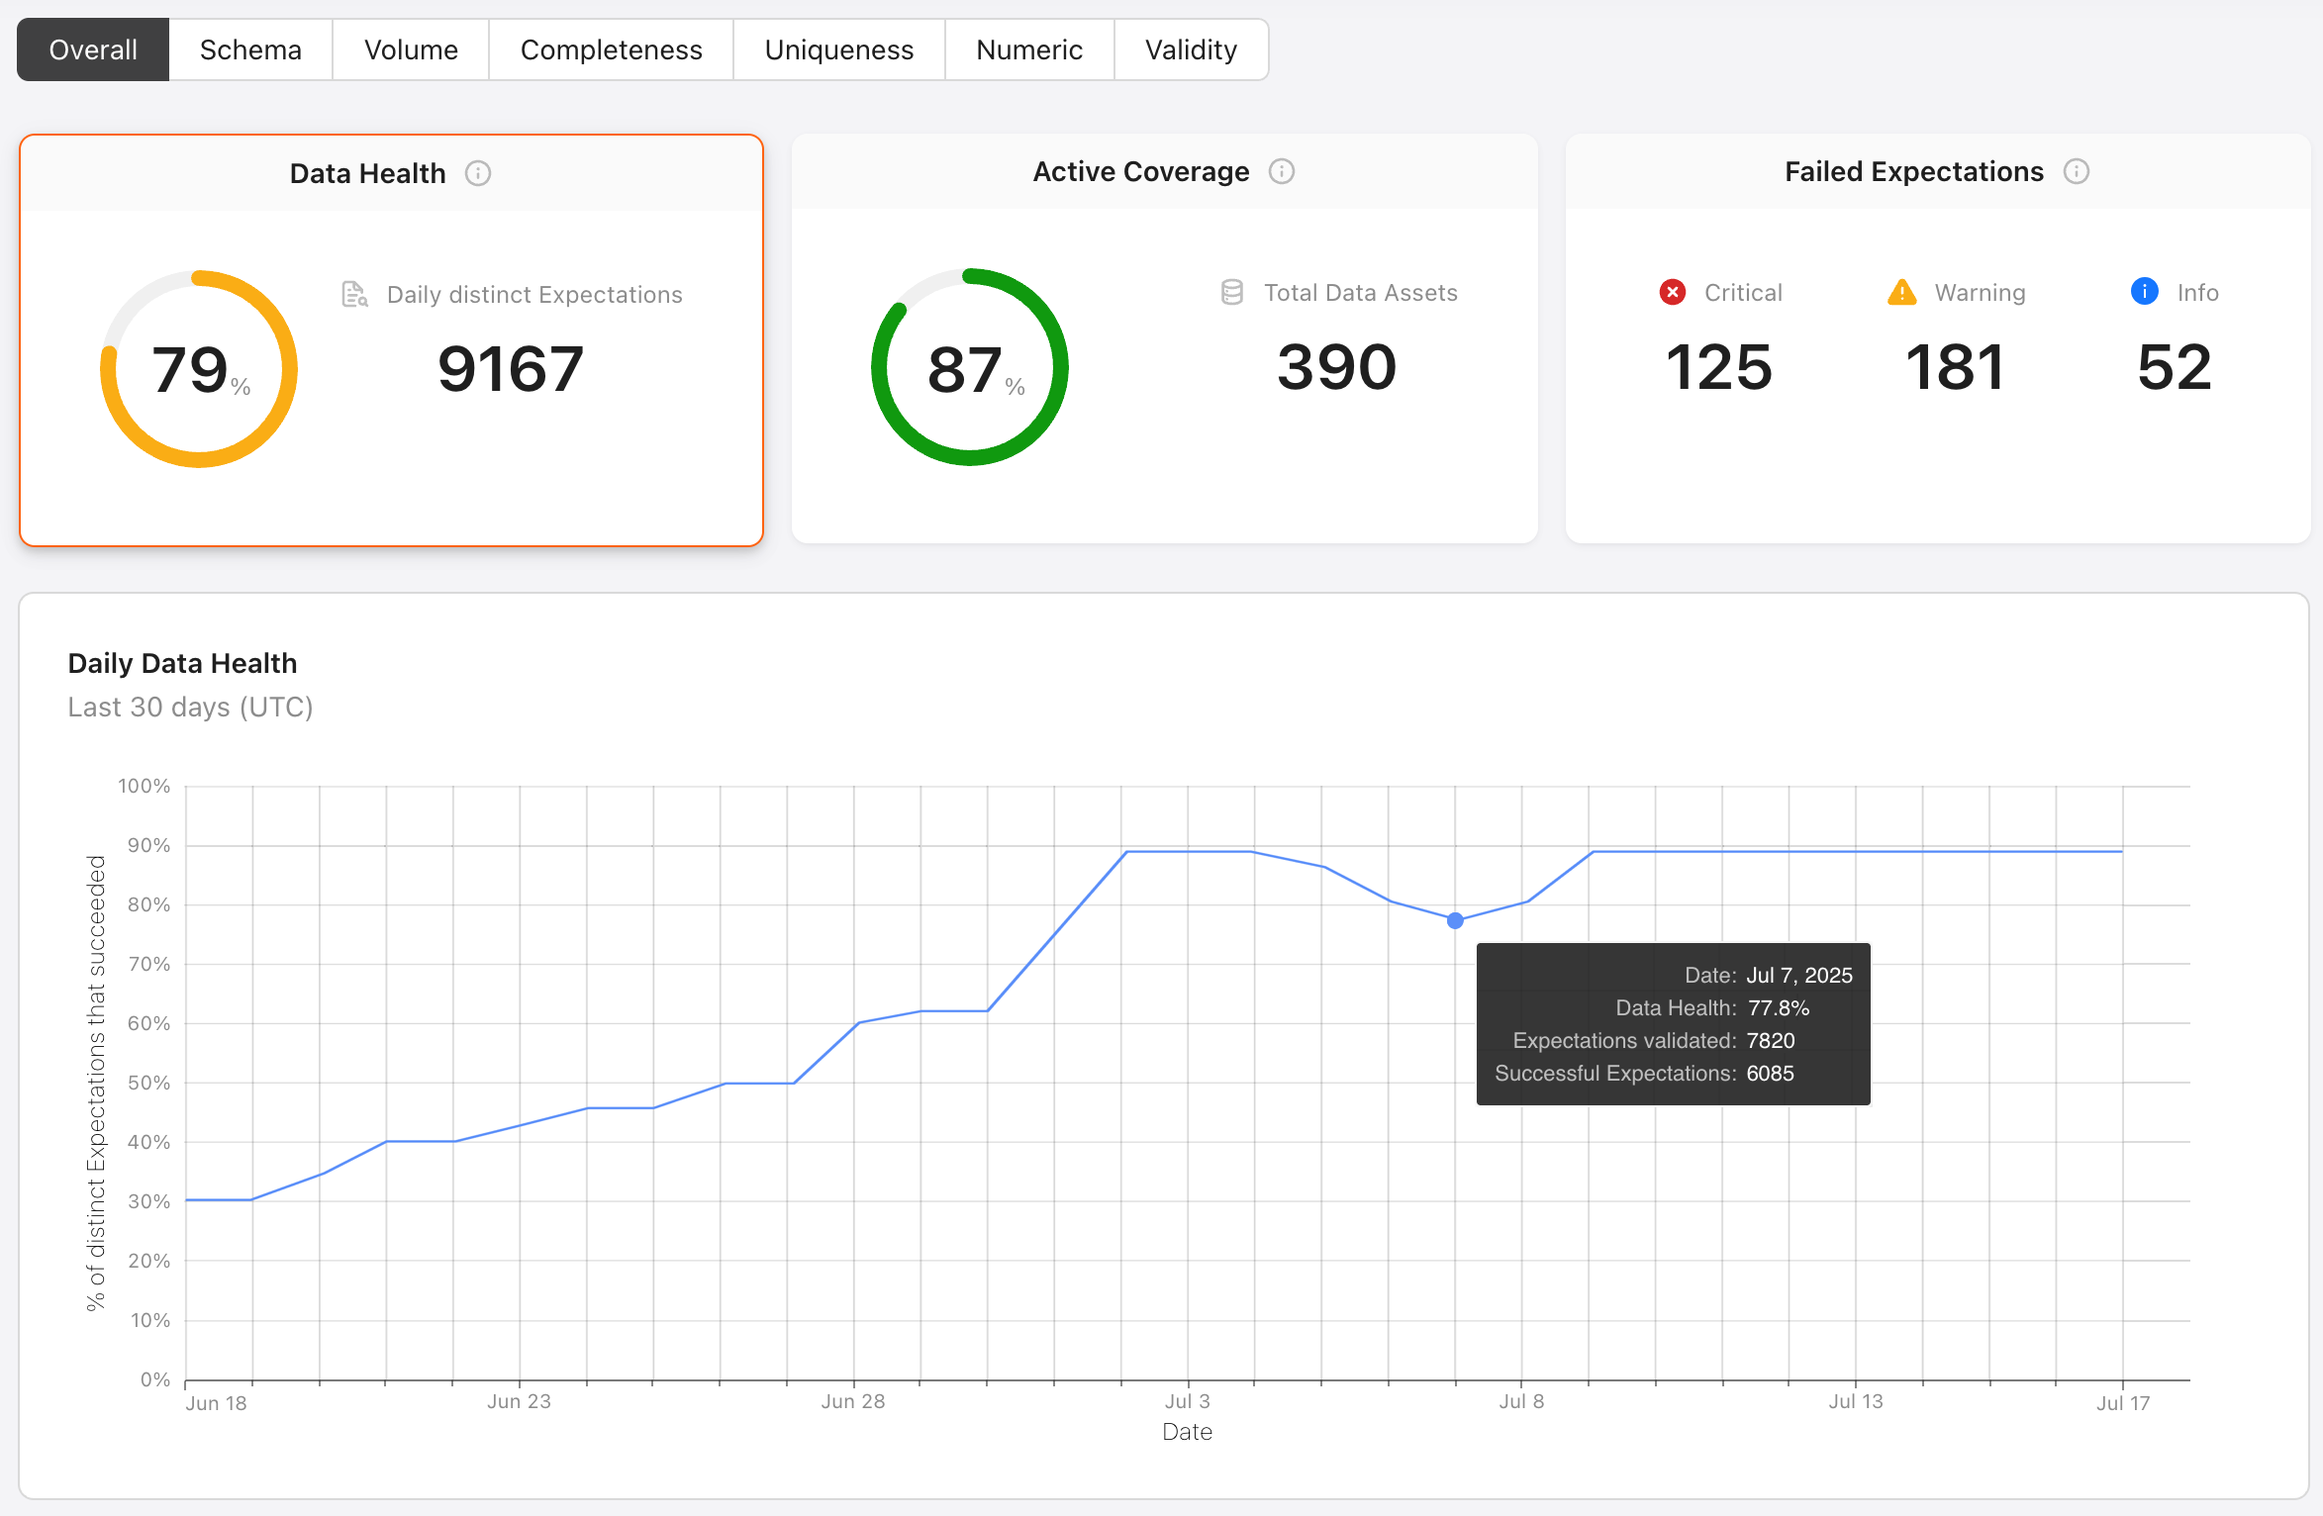
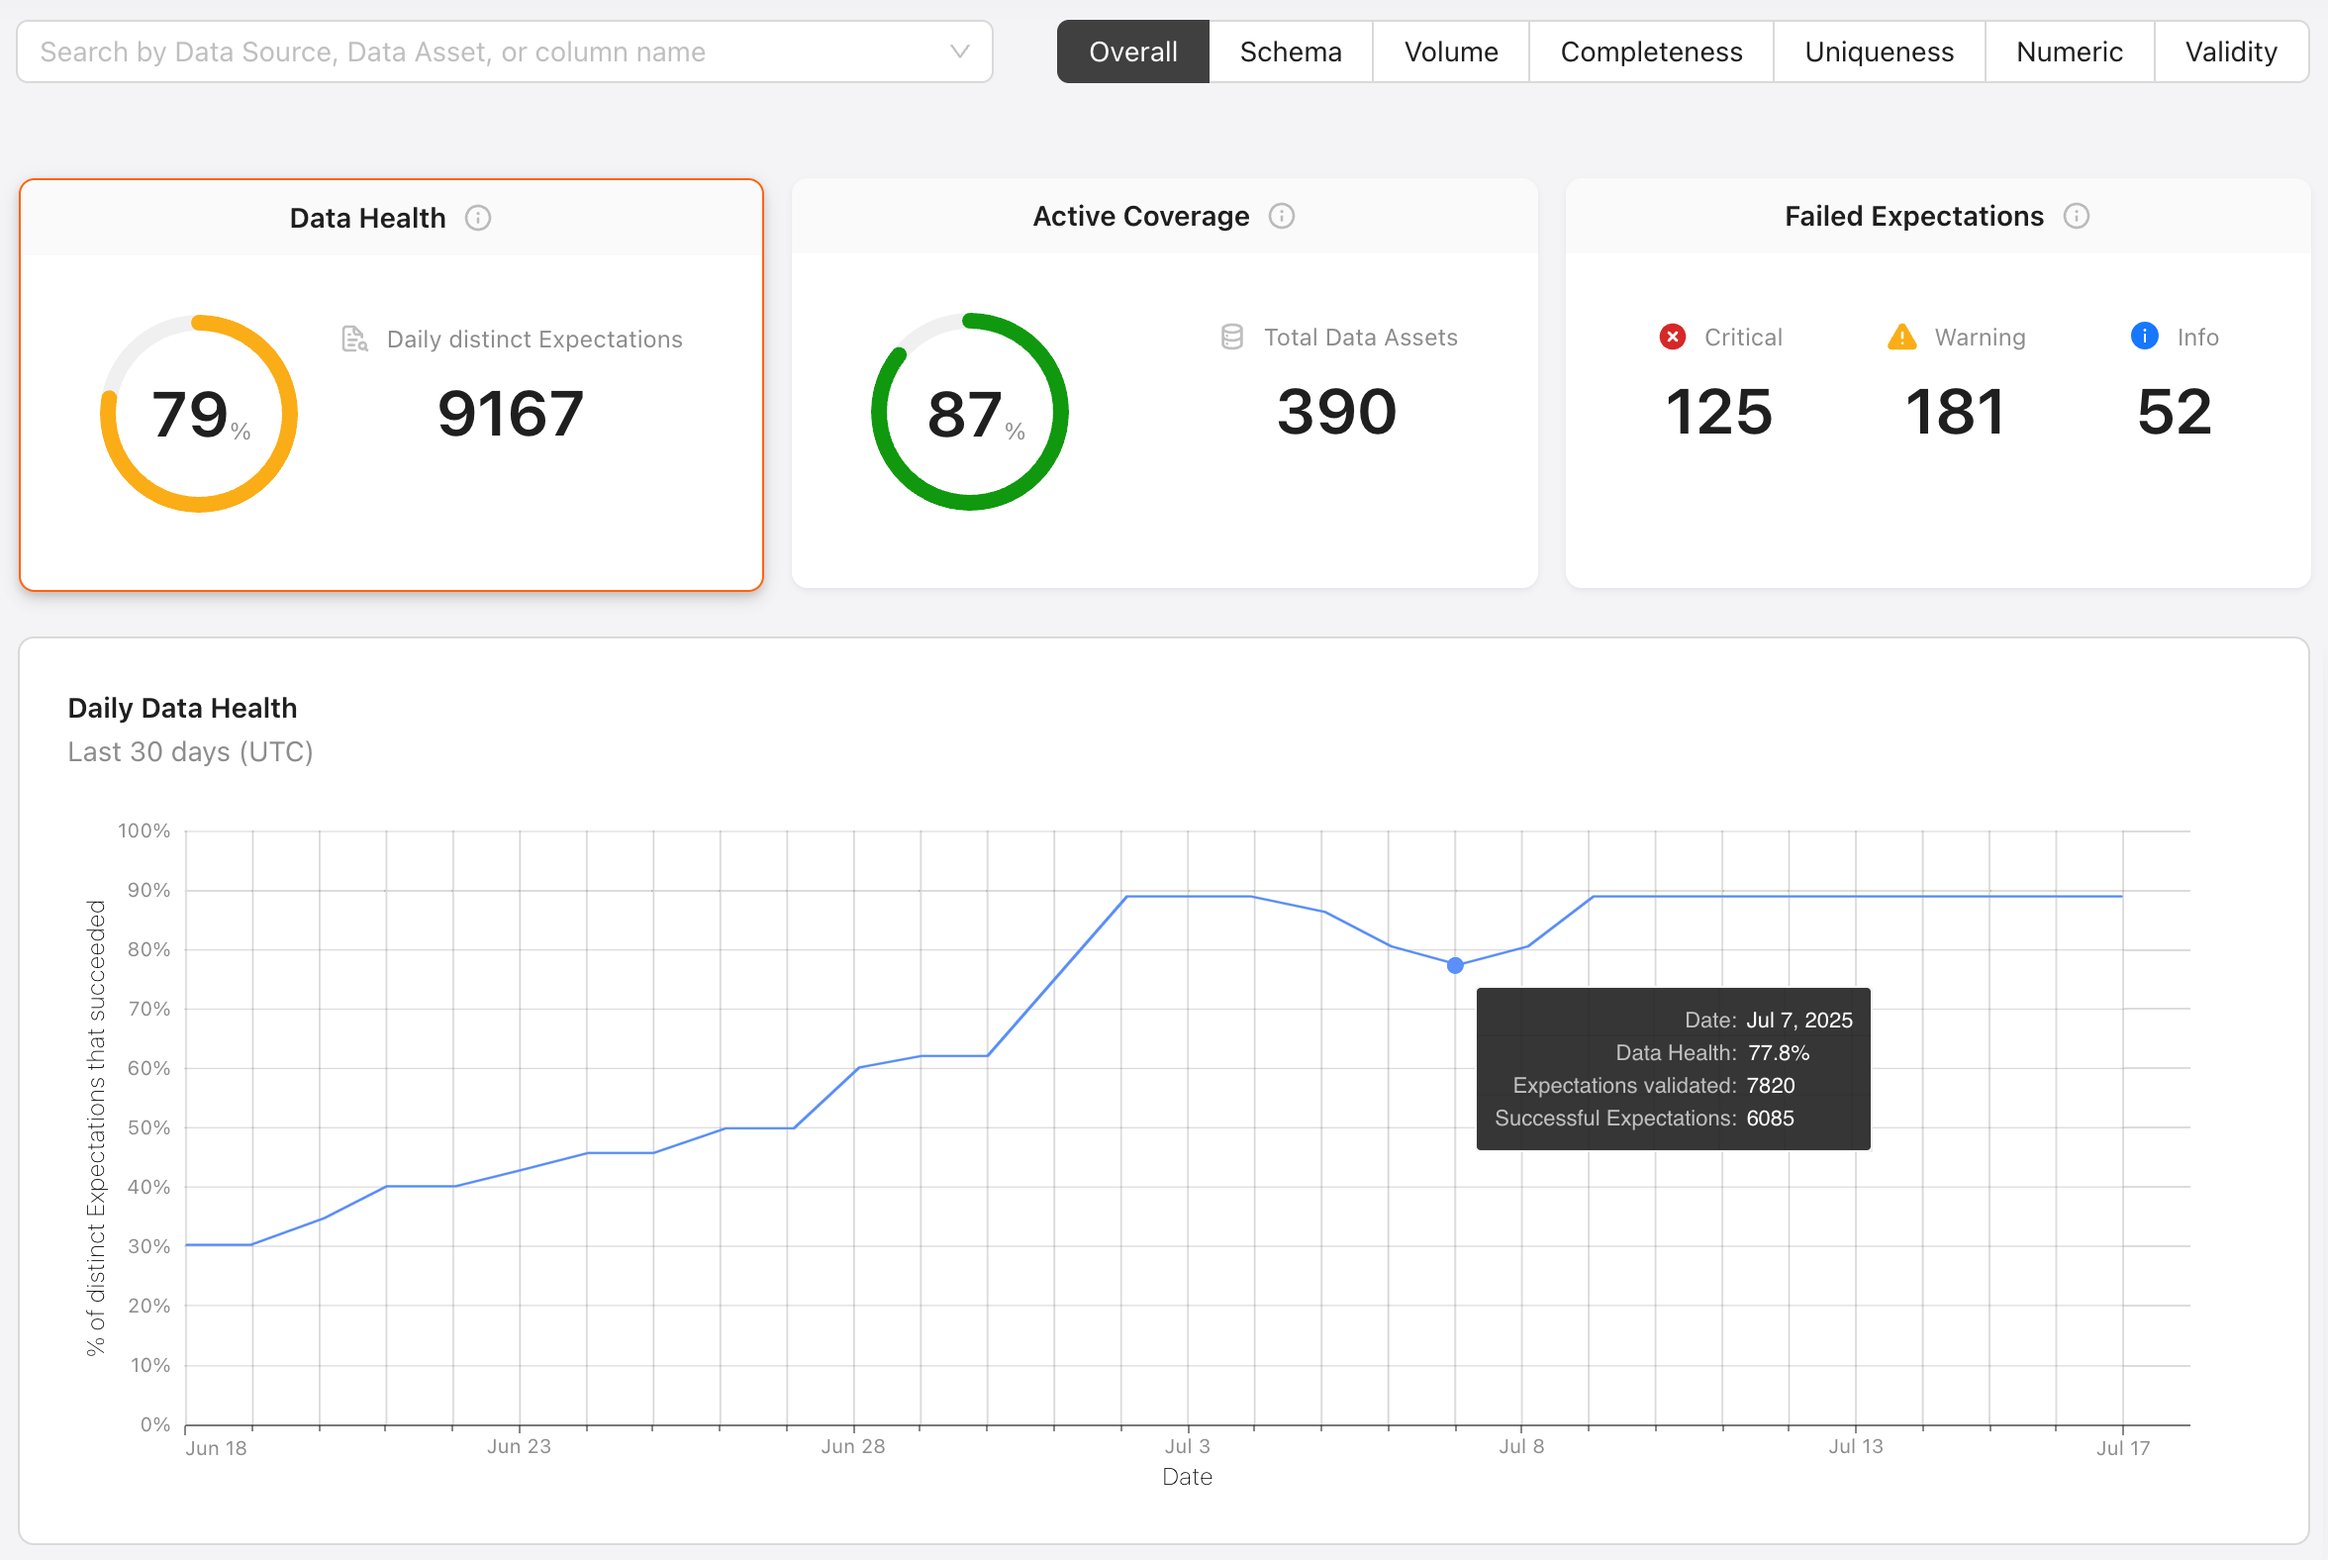
[DOCS] data health dashboard metric filters (#11529)

diff --git a/docs/docusaurus/docs/cloud/overview/data_health.md b/docs/docusaurus/docs/cloud/overview/data_health.md
@@ -8,7 +8,7 @@ To understand the health of your data, you need to know whether tests are passin
 ## Metrics
 To give you these insights into the health of your data, GX Cloud provides the following workspace-level metrics on the **Data Health** page:
 
-![Example metrics: Data Health 79%, Daily distinct Expectations 9167, Active Coverage 87%, Total Data Assets 390. Failed Expectations 125 Critical, 181 Warning, 52 Info, Daily Data Health rollover details include date, Data Health percentage, count of Expectations validated, and count of successful Expectations. Metrics default to overall data and can be filtered to a specific data quality issue, such as schema.](/img/data_health.png)
+![Example metrics: Data Health 79%, Daily distinct Expectations 9167, Active Coverage 87%, Total Data Assets 390. Failed Expectations 125 Critical, 181 Warning, 52 Info, Daily Data Health rollover details include date, Data Health percentage, count of Expectations validated, and count of successful Expectations. Metrics default to overall data and can be filtered to a specific data quality issue, such as schema, and/or a specific Data Source, Data Asset, or column name.](/img/data_health.png)
 
 - **Data Health:** A 30-day average of the following daily percentage: the number of successful distinct Expectations in a day divided by the number of distinct Expectations validated in that day. Here are some scenarios to help you understand the concepts of distinct Expectation validations and successful distinct Expectations as used in calculating data health metrics.
    - If an Expectation is validated multiple times for a given Data Asset in a single day, it will be counted as one distinct Expectation validation.
@@ -29,15 +29,40 @@ Days as used in these metrics are segmented by midnight UTC.
 
 Only current Data Assets and Expectations are considered in these metrics. Deleted Data Assets and Expectations are excluded from the calculations even if they've had Validations within the last 30 days.
 
-## Data quality issue filters
+## Filters
 
-For a more nuanced understanding of what you’re testing, you can filter the **Data Health** dashboard to focus on different data quality issues such as **Schema** or **Volume**. When you apply a filter, the metrics shown are impacted as follows:
+For a more nuanced understanding of the health of your data, you can filter the **Data Health** dashboard to focus on specific entities (**Data Sources**, **Data Assets**, or **Columns**) and/or a specific data quality issue (such as **Schema** or **Volume**). 
 
-- For **Data Health**, **Daily distinct Expectations**, **Daily Data Health**, **Failed Expectations**, and **Most frequently failed Expectations in the last 30 days**, only Expectations belonging to the selected data quality issue will be considered in calculations.
+### Entity filters
 
-- The **Active Coverage** percentage will be scoped to Data Assets that have been validated with at least one Expectation for the selected data quality issue in the last 30 days.
+An entity filter can be an exact match or a partial match. For example, you can filter the dashboard to calculate metrics from a single specific Data Source or from all Data Sources that contain a given string in their names.
 
-- The number of **Total Data Assets** will not change. This always shows the current number of Data Assets in your GX Cloud workspace regardless of what if any Expectations they have.
+When you apply an entity filter, all metrics are calculated from just the matching entities. For example, if you filter to **Columns** containing a given string in their names, then **Active Coverage** will be the percentage of Data Assets with at least one matching column that have been validated with at least one Expectation on a matching column in the last 30 days. 
+
+Keep the following limitations in mind when working with column filters:
+
+- If a Data Asset has not been [profiled](/docs/cloud/data_assets/manage_data_assets/#view-data-asset-metrics), its columns won’t be available to the entity filter. 
+- The following Expectations are not associated with any specific columns, so they will be excluded from calculations when a column filter is applied. 
+
+   - Expect query results to match comparison
+   - Expect table column count to be between
+   - Expect table column count to equal
+   - Expect table row count to be between
+   - Expect table row count to equal
+   - Expect table row count to equal other table
+   - Custom SQL Expectation
+
+### Data quality issue filters
+
+When you apply a data quality issue filter, such as **Completeness**, the metrics shown are impacted as follows:
+
+- For **Data Health**, **Daily distinct Expectations**, **Daily Data Health**, **Failed Expectations**, and **Most frequently failed Expectations**, only Expectations belonging to the selected data quality issue will be considered in calculations.
+- The **Active Coverage** percentage will be scoped to Data Assets that have been validated with at least one Expectation for the selected data quality issue in the last 30 days. 
+- The number of **Total Data Assets** will not change. This continues to show the number of Data Assets in your GX Cloud workspace that match any entity filters you’ve applied, regardless of what data quality issues you are testing on those Data Assets. 
+
+:::note Compound filters
+If you apply both an entity filter and a data quality issue filter, the filters will be compounded. For example, if you apply a **Column** filter and select the **Schema** data quality issue, then **Active Coverage** will indicate the percentage of Data Assets with matching columns that have been validated with at least one schema Expectation on a matching column in the last 30 days. 
+:::
 
 ## Next steps for improving data health
 
@@ -45,6 +70,6 @@ If **Active Coverage** is low, drill into it for a list of **Inactive Data Asset
 
 ![The Inactive Data Assets table has the following columns: Data Asset, Data Source name, and last validated.](/img/data_health_active_coverage.png)
 
-If **Failed Expectations** are high, drill into **Critical**, **Warning**, or **Info** for a severity-specific list of the **Most frequently failed Expectations in the last 30 days**. Then click on Expectations of interest to explore their Validation results so you can determine what action to take. You may find that there are issues in your data pipeline that need to be resolved, or you may find that you need to adjust your Expectations.
+If **Failed Expectations** are high, drill into **Critical**, **Warning**, or **Info** for a severity-specific list of the **Most frequently failed Expectations**. Then click on Expectations of interest to explore their Validation results so you can determine what action to take. You may find that there are issues in your data pipeline that need to be resolved, or you may find that you need to adjust your Expectations.
 
-![The Most frequently failed Expectations in the last 30 days table has the following columns: Expectation, Data Asset, Failures in the last 30 days.](/img/data_health_failed_expectations.png)
+![The Most frequently failed Expectations table has the following columns: Expectation, Data Asset, Failures in the last 30 days.](/img/data_health_failed_expectations.png)

diff --git a/docs/docusaurus/docs/cloud/data_sources/manage_data_sources.md b/docs/docusaurus/docs/cloud/data_sources/manage_data_sources.md
@@ -28,6 +28,7 @@ All of these Data Sources have the following limitations, regardless of your GX 
 
 Azure Blob Storage, BigQuery, Google Cloud Storage, Pandas, and Spark have the following additional limitations:
 - Data Asset metrics are not supported.
+- The [Data Health](/docs/cloud/overview/data_health) dashboard entity filter cannot detect the Data Asset’s columns.
 - You cannot use the UI to define a Batch for validating a time-based subset of your data. Use the GX Cloud API to [define a Batch](/docs/cloud/validations/run_validations.md).
 - When you add an Expectation, you cannot generate Expectations for [Anomaly Detection](/docs/cloud/expectations/expectations_overview.md#anomaly-detection). You can manually configure Anomaly Detection by adding Expectations with Dynamic Parameters or forecasted ranges.
 - Ad hoc Validations cannot be triggered through the GX Cloud UI. Use the GX Cloud API to [run an ad hoc Validation](/docs/cloud/validations/run_validations.md).
